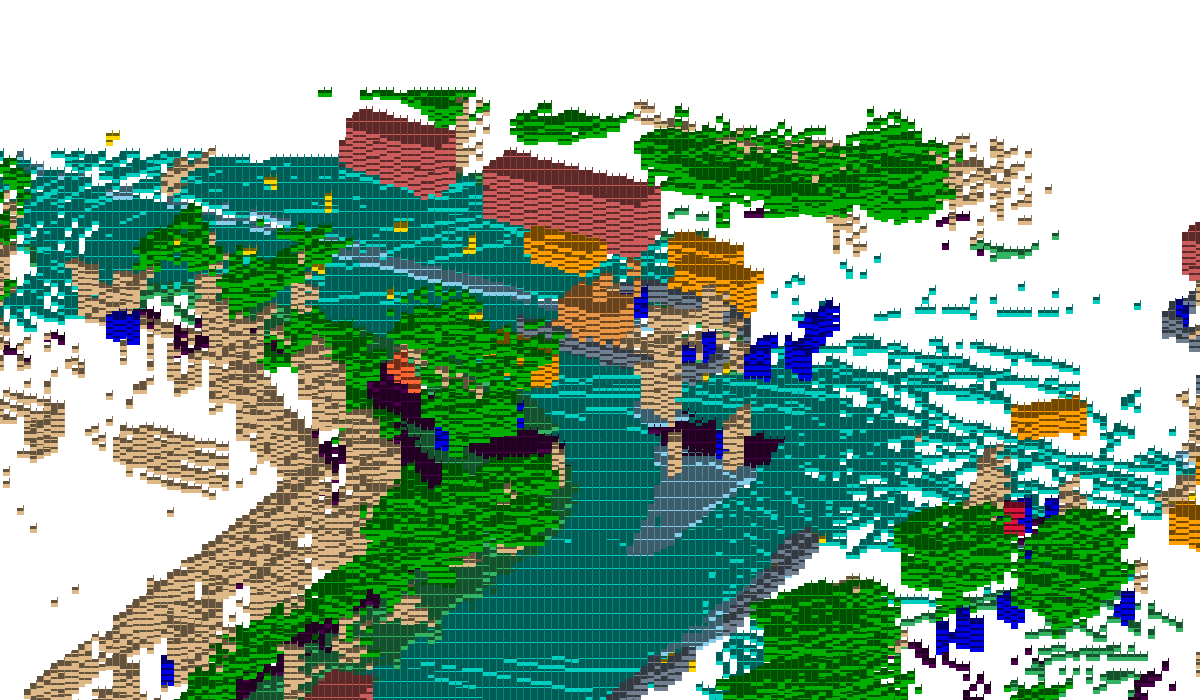
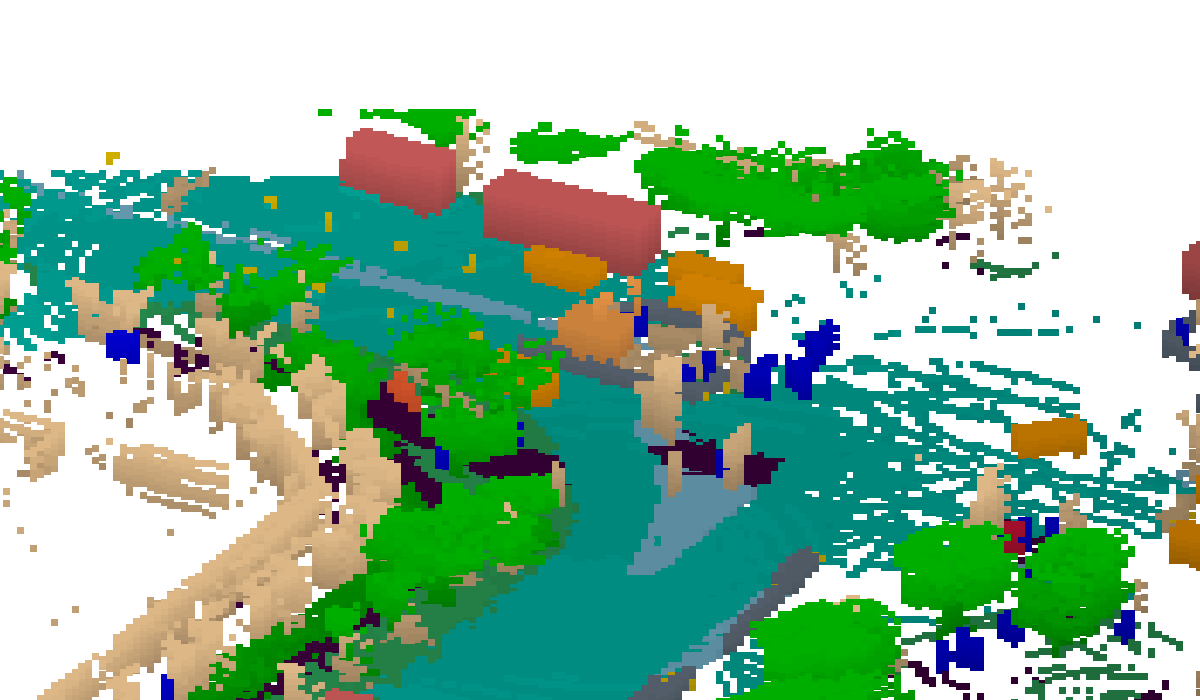
Auto backup 2026-04-20 15:20 |  4 files changed, 268 insertions(+), 69 deletions(-)

diff --git a/tools/paper_figures/render_lidar.py b/tools/paper_figures/render_lidar.py
@@ -1,0 +1,221 @@
+#!/usr/bin/env python3
+"""
+Render raw nuScenes LiDAR point cloud at the same chase-cam angle as render_occ.py.
+Useful for comparison: sparse raw LiDAR vs dense occupancy grid.
+
+Usage:
+    python3 render_lidar.py \
+        --token 88449a5cb1644a199c1c11f6ac034867 \
+        --out_dir paper_out
+"""
+
+import argparse
+import os
+import sys
+import numpy as np
+import cv2
+
+# ── nuScenes constants ────────────────────────────────────────────────────────
+DATAROOT   = '/home/t113c52027/t113c52027/occ_gt_v2/data/nuscenes_occ'
+NS_VERSION = 'v1.0-mini'
+
+# Same view parameters as render_occ.py render_3d()
+VIEW_RANGE = 35.0   # ±35m around ego
+ELEV_DEG   = 28
+OCC_W      = 1200
+OCC_H      = 700
+
+# nuScenes lidarseg → Occ3D 17-class mapping (same as generate.py)
+# nuScenes has 32 classes; we remap to Occ3D 17+free
+NUSCENES_TO_OCC3D = {
+    0:  17,  # noise         → free
+    1:  17,  # animal        → free
+    2:   7,  # human pedestrian adult
+    3:   7,  # human pedestrian child
+    4:   7,  # human pedestrian construction worker
+    5:   7,  # human pedestrian personal mobility
+    6:   7,  # human pedestrian police officer
+    7:   7,  # human pedestrian stroller
+    8:   7,  # human pedestrian wheelchair
+    9:   1,  # movable object barrier
+    10:  2,  # vehicle bicycle
+    11:  9,  # vehicle bus bendy
+    12:  3,  # vehicle bus rigid
+    13:  4,  # vehicle car
+    14:  5,  # vehicle construction
+    15: 17,  # vehicle emergency ambulance → free
+    16: 17,  # vehicle emergency police → free
+    17:  6,  # vehicle motorcycle
+    18: 15,  # static manmade
+    19: 16,  # vegetation
+    20: 11,  # flat driveable surface
+    21: 12,  # flat other
+    22: 13,  # flat sidewalk
+    23: 14,  # flat terrain
+    24: 15,  # static manmade (duplicate)
+    25: 15,  # static other object → manmade
+    26: 10,  # vehicle truck
+    27:  9,  # vehicle trailer
+    28:  8,  # vehicle traffic cone
+    29:  5,  # vehicle construction → construction_vehicle
+    30: 17,  # free
+    31: 17,  # free
+}
+
+# Occ3D RGB color table (same as render_occ.py)
+OCC3D_COLORS = np.array([
+    [ 80,  80,  80],   # 0:  others
+    [112, 128, 144],   # 1:  barrier
+    [220,  20,  60],   # 2:  bicycle
+    [255, 158,   0],   # 3:  bus
+    [255, 158,   0],   # 4:  car
+    [233, 150,  70],   # 5:  construction_vehicle
+    [255, 100,  50],   # 6:  motorcycle
+    [  0,   0, 230],   # 7:  pedestrian
+    [255, 215,   0],   # 8:  traffic_cone
+    [255, 140,   0],   # 9:  trailer
+    [205,  92,  92],   # 10: truck
+    [  0, 207, 191],   # 11: driveable_surface
+    [135, 206, 235],   # 12: other_flat
+    [ 75,   0,  75],   # 13: sidewalk
+    [ 50, 180, 100],   # 14: terrain
+    [222, 184, 135],   # 15: manmade
+    [  0, 175,   0],   # 16: vegetation
+    [200, 200, 200],   # 17: free → light grey for LiDAR
+], dtype=np.uint8)
+
+
+def quat_to_rot(q):
+    from scipy.spatial.transform import Rotation
+    return Rotation.from_quat([q[1], q[2], q[3], q[0]]).as_matrix()
+
+
+def load_lidar_in_ego(nusc, sample_token):
+    """
+    Load LiDAR point cloud for a sample and transform to ego frame.
+    Returns (N,3) xyz array and (N,) semantic label array (Occ3D class indices).
+    """
+    from nuscenes.utils.data_classes import LidarPointCloud
+
+    sample   = nusc.get('sample', sample_token)
+    sd_token = sample['data']['LIDAR_TOP']
+    sd_rec   = nusc.get('sample_data', sd_token)
+
+    # Load raw points (x,y,z,intensity,ring)
+    pc = LidarPointCloud.from_file(os.path.join(nusc.dataroot, sd_rec['filename']))
+    pts = pc.points[:3, :]   # (3, N)
+
+    # sensor → ego
+    cs  = nusc.get('calibrated_sensor', sd_rec['calibrated_sensor_token'])
+    R_s = quat_to_rot(cs['rotation'])
+    t_s = np.array(cs['translation'])
+    pts = R_s @ pts + t_s[:, None]   # (3, N)
+
+    pts = pts.T   # (N, 3)
+
+    # Semantic labels from lidarseg (if available)
+    try:
+        seg_file = os.path.join(nusc.dataroot,
+                                nusc.get('lidarseg', sd_token)['filename'])
+        raw_labels = np.fromfile(seg_file, dtype=np.uint8)
+        occ_labels = np.array([NUSCENES_TO_OCC3D.get(int(l), 17)
+                                for l in raw_labels], dtype=np.uint8)
+    except Exception:
+        # fallback: color by height
+        z_norm  = (pts[:, 2] - pts[:, 2].min()) / (pts[:, 2].max() - pts[:, 2].min() + 1e-6)
+        occ_labels = np.full(len(pts), 17, dtype=np.uint8)   # placeholder; height coloring applied later
+
+    return pts, occ_labels
+
+
+def render_lidar_chase_cam(pts, labels, out_path,
+                           elev_deg=ELEV_DEG, occ_w=OCC_W, occ_h=OCC_H,
+                           view_range=VIEW_RANGE, z_offset=0.0, pt_size=2):
+    """
+    Render LiDAR points with the same chase-cam projection as render_occ.py render_3d().
+    Points are colored by Occ3D semantic class (or height if labels are all 17).
+    """
+    # filter to view range
+    in_range = ((pts[:, 0] >= -view_range) & (pts[:, 0] <= view_range) &
+                (pts[:, 1] >= -view_range) & (pts[:, 1] <= view_range))
+    pts    = pts[in_range]
+    labels = labels[in_range]
+
+    px = pts[:, 0]
+    py = pts[:, 1]
+    pz = pts[:, 2] + z_offset
+
+    # Color: use Occ3D color table; for non-semantic (all free), use z-height
+    if np.all(labels == 17):
+        z_norm  = (pz - pz.min()) / (pz.max() - pz.min() + 1e-6)
+        base_c  = np.array([[50, 150, 220]], dtype=np.float32)
+        colors  = np.clip(base_c * (0.4 + 0.6 * z_norm)[:, None], 0, 255).astype(np.uint8)
+    else:
+        colors = OCC3D_COLORS[labels].astype(np.float32)
+        z_norm = (pz - pz.min()) / (pz.max() - pz.min() + 1e-6)
+        colors = np.clip(colors * (0.55 + 0.45 * z_norm)[:, None], 0, 255).astype(np.uint8)
+
+    # Chase-cam projection (same as render_occ.py)
+    elev  = np.radians(elev_deg)
+    se, ce = np.sin(elev), np.cos(elev)
+    scale  = occ_w / (2.0 * view_range)
+
+    x_2d  = -py
+    y_2d  =  px * se + pz * ce
+    depth = -px * ce + pz * se
+
+    ego_sx = occ_w // 2
+    ego_sy = int(occ_h * 0.70)
+    x_scr  = (x_2d * scale + ego_sx).astype(np.int32)
+    y_scr  = (ego_sy - y_2d * scale).astype(np.int32)
+
+    # back-to-front sort
+    order   = np.argsort(depth)
+    x_s, y_s, c_s = x_scr[order], y_scr[order], colors[order]
+
+    canvas = np.full((occ_h, occ_w, 3), 255, dtype=np.uint8)
+
+    # Draw each point as a small square
+    B = pt_size
+    oy, ox = np.mgrid[0:B, 0:B]
+    offsets = np.stack([ox.ravel(), oy.ravel()], axis=1)
+    n_v, n_o = len(x_s), len(offsets)
+
+    x_all = np.repeat(x_s, n_o) + np.tile(offsets[:, 0], n_v)
+    y_all = np.repeat(y_s, n_o) + np.tile(offsets[:, 1], n_v)
+    c_all = np.repeat(c_s, n_o, axis=0)
+
+    valid  = (x_all >= 0) & (x_all < occ_w) & (y_all >= 0) & (y_all < occ_h)
+    canvas[y_all[valid], x_all[valid]] = c_all[valid]
+
+    cv2.imwrite(out_path, canvas[:, :, ::-1])
+    print(f'LiDAR saved: {out_path}')
+
+
+def main():
+    parser = argparse.ArgumentParser()
+    parser.add_argument('--token',
+                        default='88449a5cb1644a199c1c11f6ac034867',
+                        help='nuScenes sample token')
+    parser.add_argument('--out_dir', default='paper_out')
+    parser.add_argument('--pt_size', type=int, default=2,
+                        help='Point size in pixels (default 2)')
+    args = parser.parse_args()
+
+    os.makedirs(args.out_dir, exist_ok=True)
+
+    print('Loading nuScenes...')
+    sys.path.insert(0, os.path.dirname(__file__))
+    from nuscenes.nuscenes import NuScenes
+    nusc = NuScenes(version=NS_VERSION, dataroot=DATAROOT, verbose=False)
+
+    print(f'Loading LiDAR for token: {args.token}')
+    pts, labels = load_lidar_in_ego(nusc, args.token)
+    print(f'Points: {len(pts)}  (semantic labels available: {not np.all(labels==17)})')
+
+    out_path = os.path.join(args.out_dir, 'lidar_chase_cam.png')
+    render_lidar_chase_cam(pts, labels, out_path, pt_size=args.pt_size)
+
+
+if __name__ == '__main__':
+    main()

diff --git a/tools/paper_figures/render_occ.py b/tools/paper_figures/render_occ.py
@@ -1,6 +1,6 @@
 #!/usr/bin/env python3
 """
-Render occupancy grid: BEV (white background) + 3D voxel view via Open3D.
+Render occupancy grid: BEV (white background) + 3D chase-cam view.
 
 Usage:
     python3 render_occ.py \
@@ -47,6 +47,7 @@ CLASS_NAMES = [
 # Grid parameters (nuScenes v3/v4)
 VOXEL_SIZE = 0.4   # metres
 MIN_BOUND  = np.array([-40.0, -40.0, -1.0])
+VIEW_RANGE = 35.0
 
 
 def load_grid(npz_path):
@@ -86,94 +87,71 @@ def render_bev(grid, out_path):
     print(f'BEV saved: {out_path}')
 
 
-# ── 3D Open3D ────────────────────────────────────────────────────────────────
+# ── 3D chase-cam (same projection as tools/compare_video/renderer.py) ────────
 
 
-def render_3d(grid, out_path, elev_deg=28, occ_w=1200, occ_h=700,
-              view_range=35.0, z_offset=-2.0, voxel_style='flat'):
+def render_3d(grid, out_path, elev_deg=28, occ_w=1200, occ_h=700, z_offset=-2.0):
     """
-    Chase-cam style 3D render, same projection as tools/compare_video/renderer.py.
-    White background, RGB output.
+    Chase-cam 3D render identical to tools/compare_video/renderer.py.
+    x_2d = -py, y_2d = px*sin(el) + pz*cos(el), depth = -px*cos(el) + pz*sin(el).
+    Block rendering with z-height brightness. White background.
     """
+    import cv2
+
     occupied = (grid != 17) & (grid != 0)
+    if not np.any(occupied):
+        cv2.imwrite(out_path, np.full((occ_h, occ_w, 3), 255, dtype=np.uint8))
+        return
+
     xs, ys, zs = np.where(occupied)
     px = (xs - 100.0) * VOXEL_SIZE
     py = (ys - 100.0) * VOXEL_SIZE
     pz = zs * VOXEL_SIZE + z_offset
-
     labels = grid[xs, ys, zs]
-    colors = OCC3D_COLORS[labels].astype(np.float32)
 
-    import cv2
-
-    elev = np.radians(elev_deg)
+    elev  = np.radians(elev_deg)
     se, ce = np.sin(elev), np.cos(elev)
-    scale = occ_w / (2.0 * view_range)
-    B = max(3, int(np.ceil(VOXEL_SIZE * scale)))   # block size in pixels
 
-    # Project voxel bottom-left corner to screen
-    # Each voxel (xi, yi, zi): world offset per voxel unit:
-    #   +x → screen (0,       -se*scale*V)
-    #   +y → screen (-scale*V, 0         )
-    #   +z → screen (0,       -ce*scale*V)
-    V = VOXEL_SIZE
-    dx_x, dy_x = 0,            int(se * scale * V)   # +x moves up
-    dx_y, dy_y = int(scale*V), 0                     # +y moves right
-    dx_z, dy_z = 0,            int(ce * scale * V)   # +z moves up
+    scale      = occ_w / (2.0 * VIEW_RANGE)
+    block_size = max(4, int(np.ceil(VOXEL_SIZE * scale)))
 
-    ego_sx = occ_w // 2
-    ego_sy = int(occ_h * 0.68)
+    # z-height brightness: same as renderer.py flat mode (0.6 + 0.4*z_norm)
+    z_norm = (pz - pz.min()) / (pz.max() - pz.min() + 1e-6)
+    colors = OCC3D_COLORS[labels].astype(np.float32)
+    colors = np.clip(colors * (0.6 + 0.4 * z_norm)[:, np.newaxis], 0, 255).astype(np.uint8)
 
-    def world_to_screen(px_, py_, pz_):
-        sx = int(-py_ * scale + ego_sx)
-        sy = int(ego_sy - (px_ * se + pz_ * ce) * scale)
-        return sx, sy
-
-    canvas = np.full((occ_h, occ_w, 3), 255, dtype=np.uint8)
-
-    # sort back-to-front for painter's algorithm
+    # same projection as renderer.py
     x_2d  = -py
     y_2d  =  px * se + pz * ce
     depth = -px * ce + pz * se
+
+    ego_sx = occ_w // 2
+    ego_sy = int(occ_h * 0.70)
+    x_scr  = (x_2d * scale + ego_sx).astype(np.int32)
+    y_scr  = (ego_sy - y_2d * scale).astype(np.int32)
+
+    margin  = block_size
+    visible = ((x_scr >= -margin) & (x_scr < occ_w + margin) &
+               (y_scr >= -margin) & (y_scr < occ_h + margin))
+    x_scr, y_scr = x_scr[visible], y_scr[visible]
+    colors, depth = colors[visible], depth[visible]
+
     order = np.argsort(depth)
+    x_s, y_s, c_s = x_scr[order], y_scr[order], colors[order]
 
-    colors_base = OCC3D_COLORS[labels]
+    # vectorised block paint
+    B = block_size
+    oy, ox = np.mgrid[0:B, 0:B]
+    offsets = np.stack([ox.ravel(), oy.ravel()], axis=1)
+    n_v, n_o = len(x_s), len(offsets)
 
-    for idx in order:
-        sx, sy = world_to_screen(px[idx], py[idx], pz[idx])
+    x_all = np.repeat(x_s, n_o) + np.tile(offsets[:, 0], n_v)
+    y_all = np.repeat(y_s, n_o) + np.tile(offsets[:, 1], n_v)
+    c_all = np.repeat(c_s, n_o, axis=0)
 
-        c = colors_base[idx].astype(np.float32)
-        c_top   = np.clip(c * 1.00, 0, 255).astype(np.uint8)
-        c_front = np.clip(c * 0.65, 0, 255).astype(np.uint8)
-        c_side  = np.clip(c * 0.45, 0, 255).astype(np.uint8)
-
-        # Top face: parallelogram spanned by +x and +y offsets
-        top = np.array([
-            [sx,              sy],
-            [sx + dx_x,       sy - dy_x],
-            [sx + dx_x+dx_y,  sy - dy_x - dy_y],
-            [sx + dx_y,       sy - dy_y],
-        ], dtype=np.int32)
-
-        # Front face: spanned by +x and +z offsets (y face, viewer side)
-        front = np.array([
-            [sx + dx_y,           sy - dy_y],
-            [sx + dx_x + dx_y,    sy - dy_x - dy_y],
-            [sx + dx_x + dx_y,    sy - dy_x - dy_y - dy_z],
-            [sx + dx_y,           sy - dy_y - dy_z],
-        ], dtype=np.int32)
-
-        # Side face: spanned by +y and +z offsets (x face, viewer side)
-        side = np.array([
-            [sx,              sy],
-            [sx + dx_y,       sy - dy_y],
-            [sx + dx_y,       sy - dy_y - dy_z],
-            [sx,              sy - dy_z],
-        ], dtype=np.int32)
-
-        cv2.fillPoly(canvas, [side],  c_side.tolist())
-        cv2.fillPoly(canvas, [front], c_front.tolist())
-        cv2.fillPoly(canvas, [top],   c_top.tolist())
+    valid  = (x_all >= 0) & (x_all < occ_w) & (y_all >= 0) & (y_all < occ_h)
+    canvas = np.full((occ_h, occ_w, 3), 255, dtype=np.uint8)
+    canvas[y_all[valid], x_all[valid]] = c_all[valid]
 
     cv2.imwrite(out_path, canvas[:, :, ::-1])
     print(f'3D saved: {out_path}')
